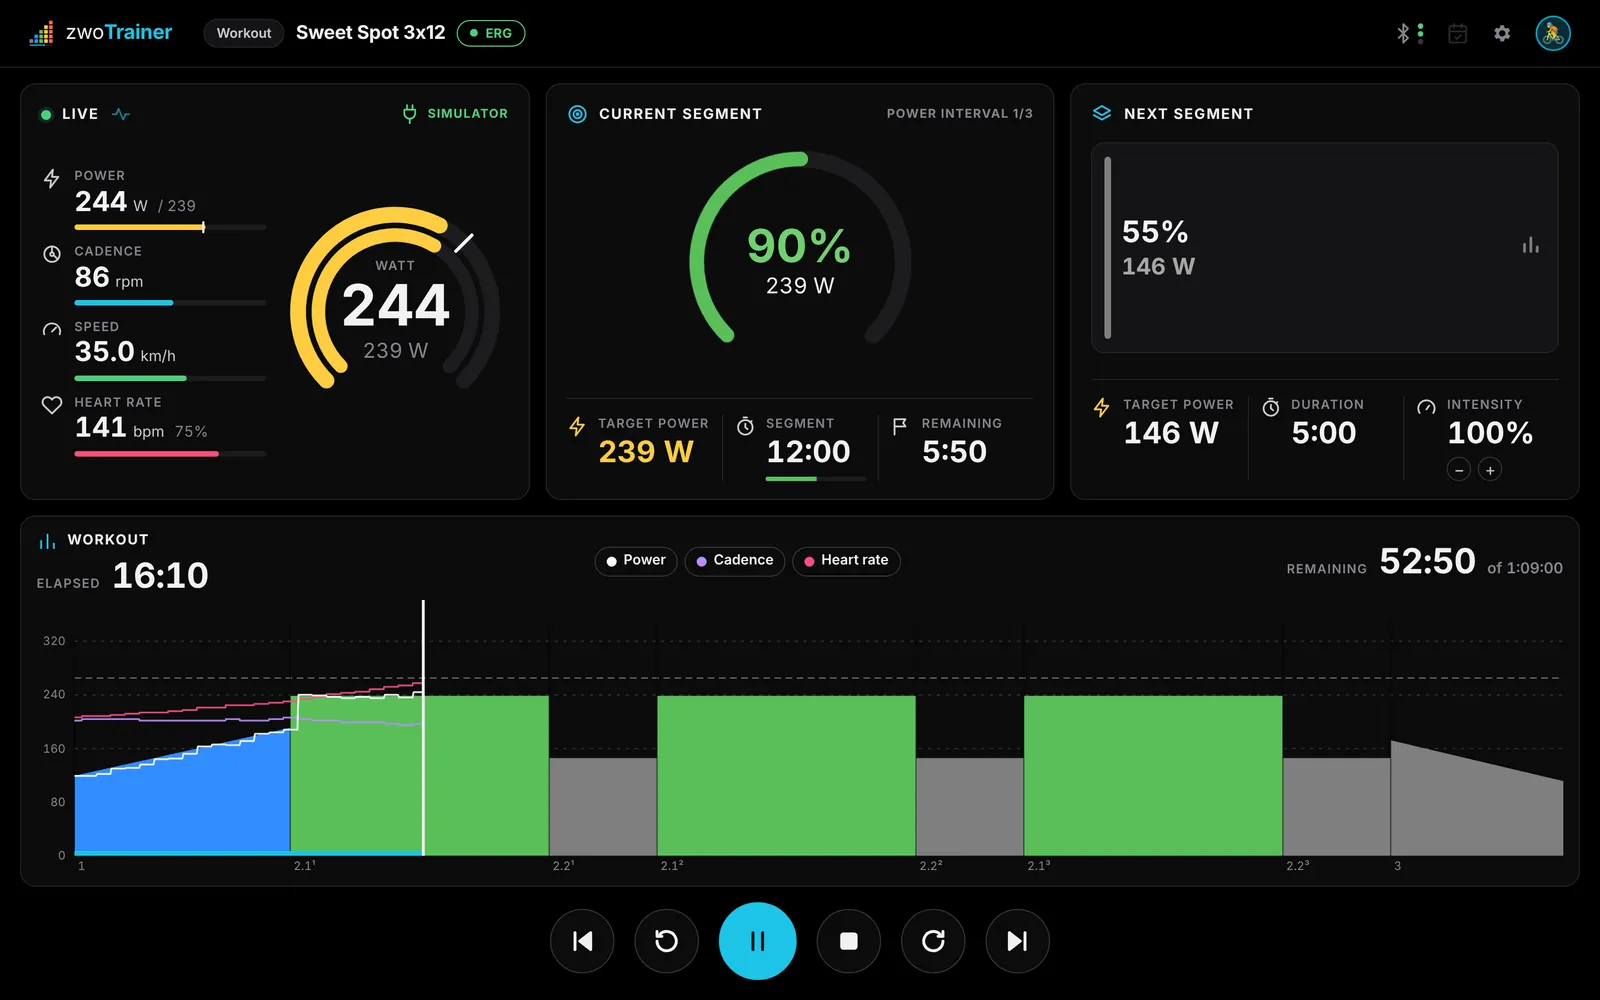
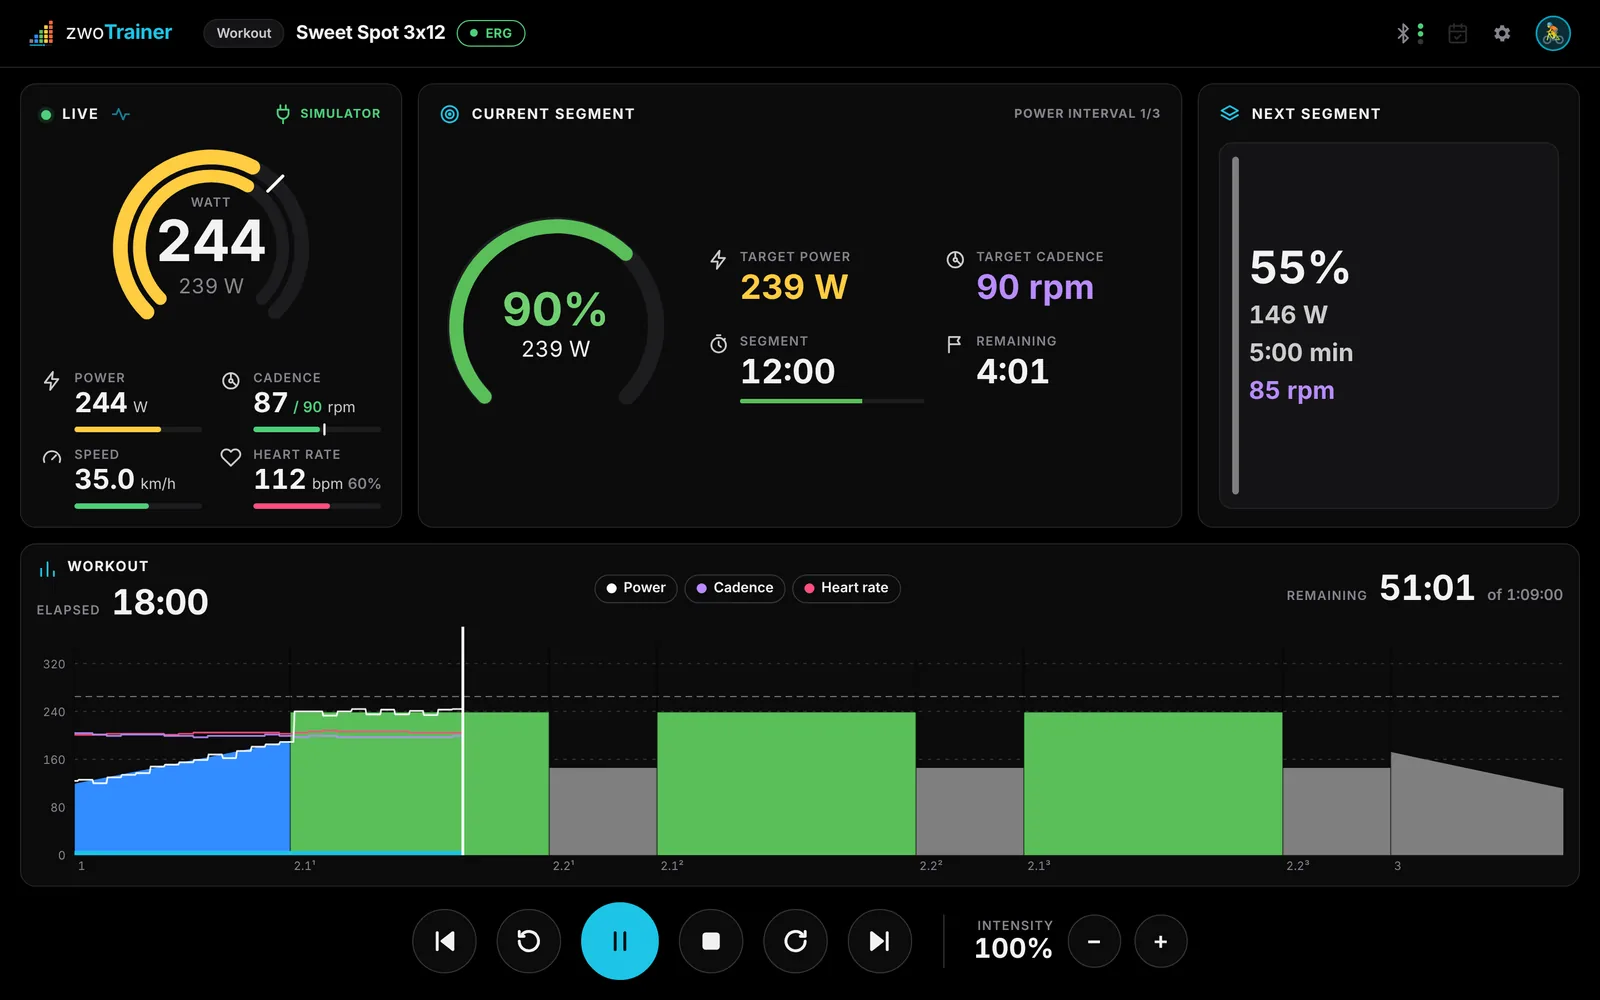
Update the site's ride and FTP test screenshots and the ride screen text to the new ride view layout

diff --git a/site/index.html b/site/index.html
@@ -55,10 +55,10 @@
         <h2 class="display">Readable in the middle of an&nbsp;interval.</h2>
         <p>Three panels sit above the workout chart. The numbers are large, the background is pure black or pure white, and the zone colours are the ones you know from Zwift.</p>
         <ul class="ticks">
-          <li><b>Live:</b> power against target, cadence, speed, heart rate and a watt gauge.</li>
-          <li><b>Current and next segment:</b> target in % and watts, and the time left in the segment.</li>
+          <li><b>Live:</b> a watt gauge with target and actual power, plus power, cadence against its target, speed and heart rate.</li>
+          <li><b>Current and next segment:</b> target in % and watts, target cadence, segment length and the time left.</li>
           <li><b>Workout chart:</b> your power, cadence and heart rate drawn over the planned blocks.</li>
-          <li><b>Intensity:</b> scale all targets by 1 % from the keyboard or a Zwift controller, or by 10 % with Shift.</li>
+          <li><b>Intensity:</b> scale all targets by 1 % next to the play button, from the keyboard or a Zwift controller, or by 10 % with Shift.</li>
         </ul>
       </div>
       <div class="rv inv"><div class="frame"><div class="bar"><i></i><i></i><i></i></div><img class="sd" src="img/ride-dark.webp" alt="Ride screen in the middle of an interval" width="1600" height="1000" loading="lazy"><img class="sl" src="img/ride-light.webp" alt="Ride screen in the middle of an interval" width="1600" height="1000" loading="lazy"></div><p class="caption">Light and dark mode follow your system, or pick one in Settings.</p></div>
